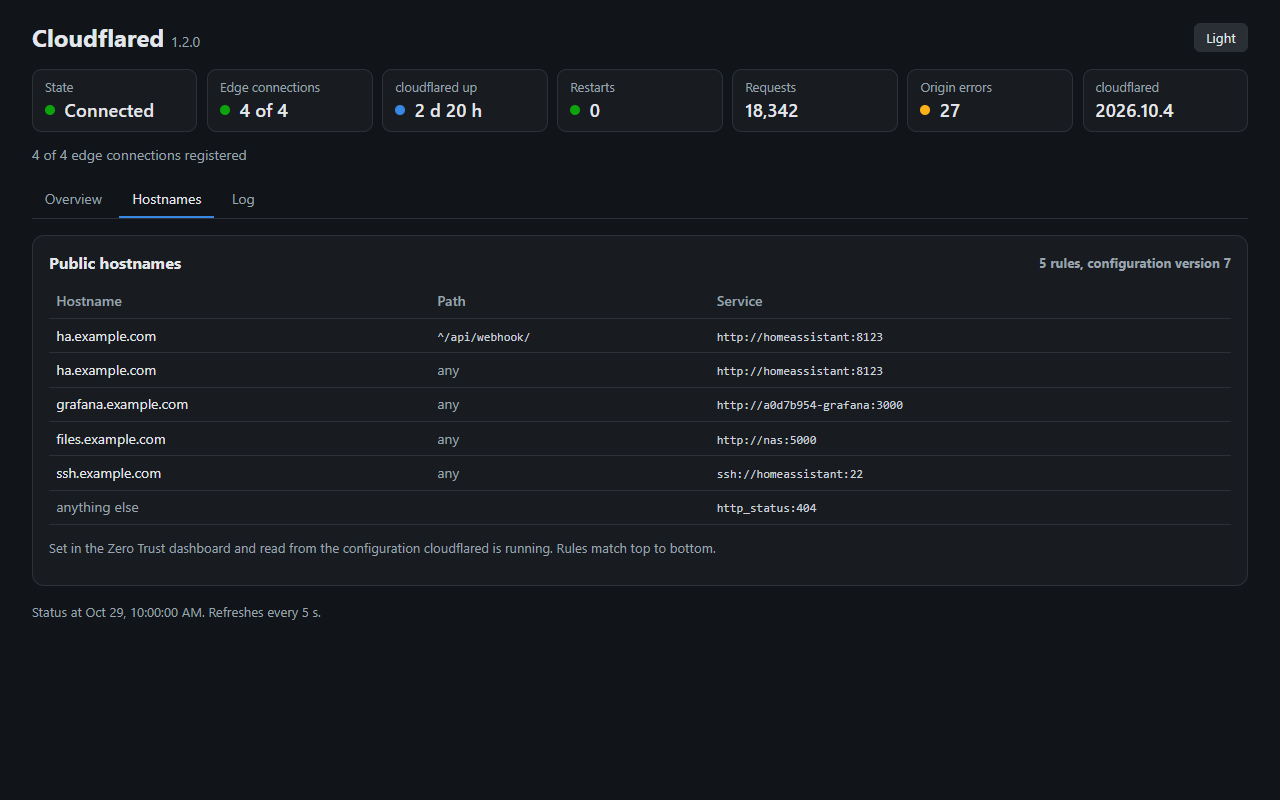
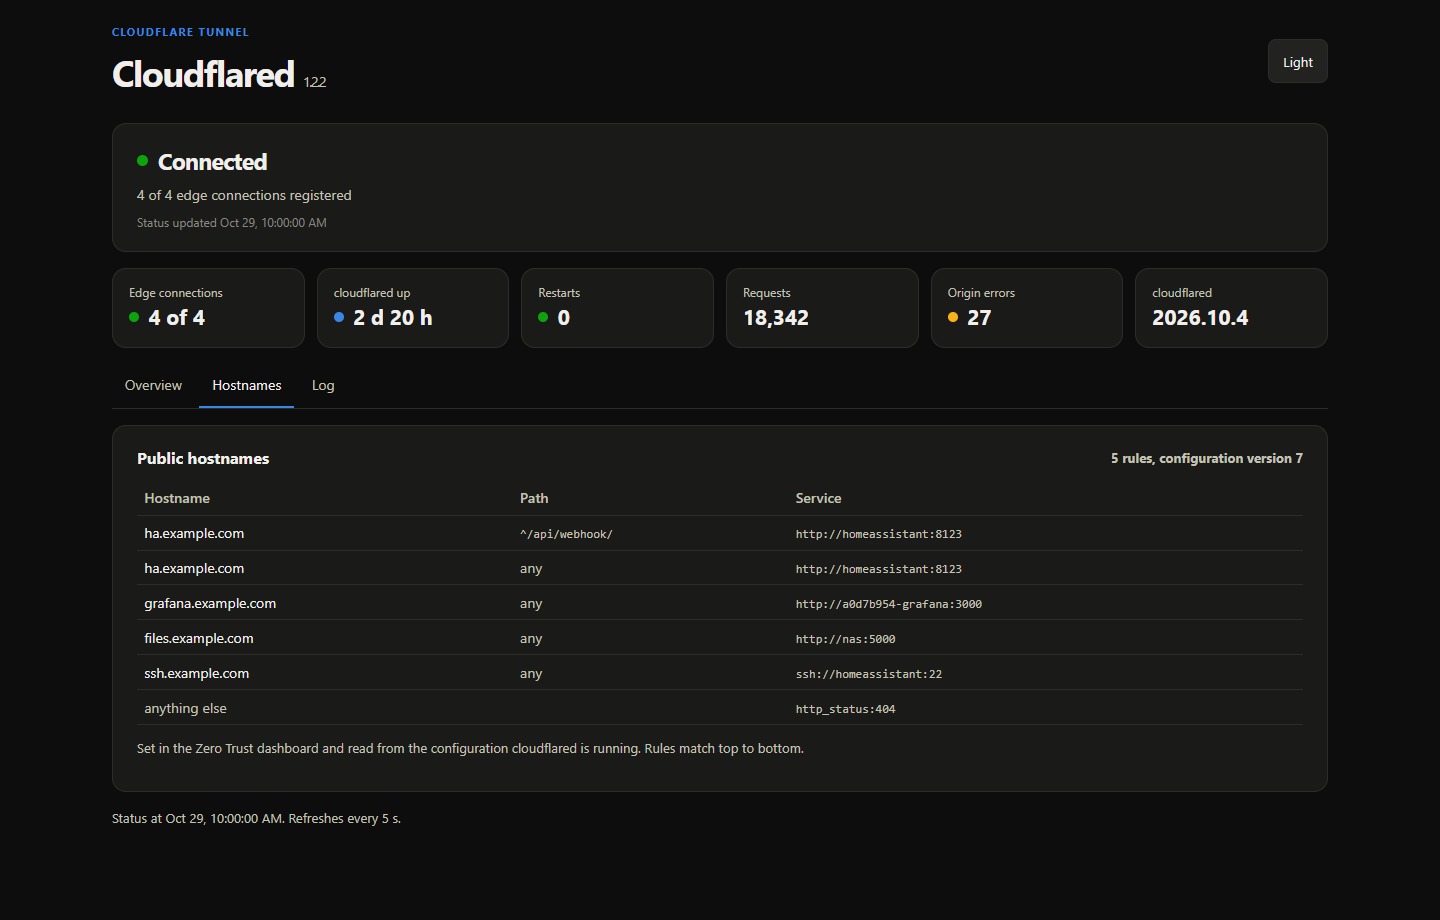
Refine the Cloudflared connector dashboard

diff --git a/cloudflared_connector/connector/web/style.css b/cloudflared_connector/connector/web/style.css
@@ -2,32 +2,37 @@
    always beside a text label. Dark is the default; the light theme only redefines the tokens. */
 :root {
   color-scheme: dark;
-  --bg: #111418; --card: #181c21; --line: #2c3138; --track: #232830; --chip: #232830; --btn: #2a2f36;
-  --btn-hover: #343a43; --text: #e3e6ea; --muted: #9aa3ad; --faint: #5f6b78; --link: #8ab4f8; --code: #c9d1d9;
+  --bg: #0D0D0D; --card: #1A1A19; --line: #2C2C2A; --track: #222220; --chip: #222220; --btn: #222220;
+  --btn-hover: #30302e; --text: #F0EFEC; --muted: #C3C2B7; --faint: #898781; --link: #3987E5; --code: #C3C2B7;
   --s1: #3987e5; --s2: #d95926; --s3: #199e70; --s4: #9085e9;
   --good: #0ca30c; --warn: #fab219; --serious: #ec835a; --crit: #d03b3b;
 }
 :root[data-theme="light"] {
   color-scheme: light;
-  --bg: #f4f5f7; --card: #ffffff; --line: #d8dce2; --track: #e7eaee; --chip: #eef0f3; --btn: #eef0f3;
-  --btn-hover: #e2e6eb; --text: #1c2127; --muted: #5a6470; --faint: #9aa3ad; --link: #1a5fb4; --code: #2d333b;
+  --bg: #F9F9F7; --card: #FCFCFB; --line: #E1E0D9; --track: #F0EFEC; --chip: #F0EFEC; --btn: #F0EFEC;
+  --btn-hover: #E6E5E0; --text: #0B0B0B; --muted: #52514E; --faint: #77756F; --link: #2A78D6; --code: #52514E;
   --s1: #2a6fc9; --s2: #c24d1f; --s3: #13805a; --s4: #6f63d1;
   --good: #0a8a0a; --warn: #c98a00; --serious: #c9622f; --crit: #c02f2f;
 }
 * { box-sizing: border-box; }
-body { font: 14px/1.45 system-ui, sans-serif; margin: 0; padding: 1.25rem; background: var(--bg); color: var(--text); }
+body { font: 14px/1.5 "Segoe UI", system-ui, sans-serif; margin: 0; padding: 24px; background: var(--bg); color: var(--text); }
 main { max-width: 76rem; margin: auto; }
 code, .mono { font-family: ui-monospace, SFMono-Regular, Menlo, Consolas, monospace; font-size: .86em; color: var(--code); }
-h1 { margin: 0; font-size: 1.5rem; }
+h1 { margin: 0; font-size: clamp(1.65rem,3vw,2.25rem); letter-spacing: -.04em; }
 h1 small { color: var(--muted); font-weight: 400; font-size: .9rem; }
 h2 { font-size: 1rem; margin: 0 0 .7rem; }
-.top { display: flex; align-items: center; justify-content: space-between; margin-bottom: .9rem; }
-.tiles { display: grid; grid-template-columns: repeat(auto-fit, minmax(9rem, 1fr)); gap: .6rem; }
-.tile { background: var(--card); border: 1px solid var(--line); border-radius: .6rem; padding: .5rem .75rem; min-width: 0; }
-.tile .k { color: var(--muted); font-size: .8rem; }
-.tile .v { font-size: 1.15rem; font-weight: 600; white-space: nowrap; overflow: hidden; text-overflow: ellipsis; }
+.top { display: flex; align-items: center; justify-content: space-between; margin-bottom: 24px; }
+.eyebrow { color: var(--s1); font-size: 11px; font-weight: 700; letter-spacing: .12em; margin: 0 0 4px; }
+.hero { background: var(--card); border: 1px solid var(--line); border-radius: 14px; padding: 20px 24px; margin-bottom: 16px; }
+.hero-heading { display: flex; align-items: center; gap: 10px; font-size: 23px; font-weight: 700; letter-spacing: -.03em; }
+.hero-heading .dot { width: 11px; height: 11px; }
+.freshness { color: var(--faint); font-size: 12px; margin: 8px 0 0; }
+.tiles { display: grid; grid-template-columns: repeat(auto-fit, minmax(10.5rem, 1fr)); gap: 12px; }
+.tile { background: var(--card); border: 1px solid var(--line); border-radius: 14px; padding: 14px 16px; min-width: 0; }
+.tile .k { color: var(--muted); font-size: 12px; }
+.tile .v { font-size: 21px; font-weight: 700; white-space: nowrap; overflow: hidden; text-overflow: ellipsis; font-variant-numeric: tabular-nums; }
 .tile.alert { border-color: var(--warn); }
-.headline { margin: .8rem 0 0; color: var(--muted); }
+.headline { margin: 6px 0 0; color: var(--muted); }
 .tabs { display: flex; gap: .3rem; margin-top: 1rem; border-bottom: 1px solid var(--line); }
 .tabs button { background: none; border: 0; border-bottom: 2px solid transparent; border-radius: 0; padding: .45rem .8rem;
   color: var(--muted); font: inherit; cursor: pointer; }
@@ -37,7 +42,7 @@ h2 { font-size: 1rem; margin: 0 0 .7rem; }
 .pair { display: grid; grid-template-columns: repeat(auto-fit, minmax(22rem, 1fr)); gap: 1rem; align-items: start; }
 .label { margin-bottom: .35rem; }
 .grid[hidden] { display: none; }
-.card { background: var(--card); border: 1px solid var(--line); border-radius: .75rem; padding: .9rem 1rem; min-width: 0; }
+.card { background: var(--card); border: 1px solid var(--line); border-radius: 14px; padding: 20px 24px; min-width: 0; }
 .card.wide { grid-column: 1 / -1; }
 .card.alert { border-color: var(--warn); }
 .card h2 { display: flex; align-items: center; justify-content: space-between; gap: .6rem; }
@@ -74,9 +79,10 @@ table { border-collapse: collapse; width: 100%; font-size: .88rem; }
 td, th { border-bottom: 1px solid var(--line); padding: .4rem .45rem; text-align: left; vertical-align: top; }
 th { color: var(--muted); font-weight: 500; }
 td code { overflow-wrap: anywhere; }
-button { background: var(--btn); color: var(--text); border: 1px solid var(--line); border-radius: .4rem; padding: .25rem .7rem;
+button { background: var(--btn); color: var(--text); border: 1px solid var(--line); border-radius: 8px; padding: 8px 14px; min-height: 44px;
   font: inherit; font-size: .84rem; cursor: pointer; }
 button:hover { background: var(--btn-hover); }
+button:focus-visible { outline: 3px solid var(--s1); outline-offset: 2px; }
 button.danger { border-color: var(--crit); }
 button:disabled { opacity: .55; cursor: default; }
 .actions { display: flex; gap: .5rem; align-items: center; flex-wrap: wrap; margin-top: .8rem; }
@@ -95,6 +101,7 @@ button:disabled { opacity: .55; cursor: default; }
 .foot { margin-top: 1rem; }
 @media (max-width: 30rem) {
   body { padding: .75rem; }
+  .hero { padding: 16px; }
   .pair { grid-template-columns: 1fr; }
   .log div { grid-template-columns: 1fr; gap: 0; }
 }

diff --git a/cloudflared_connector/connector/web/app.js b/cloudflared_connector/connector/web/app.js
@@ -78,14 +78,12 @@ function codeClass(code) {
 // --- sections -------------------------------------------------------------------------------------
 
 function tiles(s) {
-  const [cls, word] = STATES[s.state] || ['idle', s.state];
   const c = s.connections;
   const t = s.traffic;
   const tile = (k, v, vcls, alert) =>
     el('div', { class: `tile${alert ? ' alert' : ''}`, title: k },
       el('div', { class: 'k' }, k), el('div', { class: 'v row' }, vcls ? dot(vcls) : null, v));
   return [
-    tile('State', word, cls, cls !== 'good'),
     tile('Edge connections', `${c.ready} of ${c.expected}`,
       c.ready >= c.expected ? 'good' : c.ready > 0 ? 'warn' : 'crit'),
     tile('cloudflared up', duration(s.process.uptime_s), s.process.running ? 'run' : 'idle'),
@@ -200,6 +198,12 @@ function render() {
   const s = view.last;
   if (!s) return;
   document.getElementById('version').textContent = s.addon_version;
+  const [stateClass, stateWord] = STATES[s.state] || ['idle', s.state];
+  document.getElementById('state-dot').className = `dot ${view.failed ? 'idle' : stateClass}`;
+  document.getElementById('state-word').textContent = view.failed ? `Last known: ${stateWord}` : stateWord;
+  document.getElementById('freshness').textContent = view.failed
+    ? `Connection lost · last status ${when(s.generated_at)}`
+    : `Status updated ${when(s.generated_at)}`;
   document.getElementById('tiles').replaceChildren(...tiles(s));
   document.getElementById('headline').textContent = s.headline;
   const notices = s.notices.map((n) => el('div', { class: 'notice small' }, n));

diff --git a/cloudflared_connector/connector/web/index.html b/cloudflared_connector/connector/web/index.html
@@ -10,11 +10,15 @@
 <body>
 <main>
   <header class="top">
-    <h1>Cloudflared <small id="version"></small></h1>
+    <div><p class="eyebrow">CLOUDFLARE TUNNEL</p><h1>Cloudflared <small id="version"></small></h1></div>
     <button id="theme" type="button" title="Switch the colour theme">Light</button>
   </header>
+  <section class="hero" aria-label="Connector status">
+    <div class="hero-heading"><span id="state-dot" class="dot" aria-hidden="true"></span><span id="state-word">Connecting</span></div>
+    <p id="headline" class="headline"></p>
+    <p id="freshness" class="freshness"></p>
+  </section>
   <div id="tiles" class="tiles"></div>
-  <p id="headline" class="headline"></p>
   <div id="notices"></div>
   <nav class="tabs" role="tablist">
     <button type="button" role="tab" data-tab="overview">Overview</button>

diff --git a/README.md b/README.md
@@ -40,7 +40,7 @@ The add-on adds a Cloudflared page to the Home Assistant sidebar. It refreshes e
 
 ![Log](docs/screenshots/log.png)
 
-The screenshots show the panel's demo mode (`connector --demo`), fed with example data.
+The screenshots show the panel's demo mode (`connector --demo`), fed with example data. [See the phone layout](docs/screenshots/mobile.png).
 
 ## Properties
 
